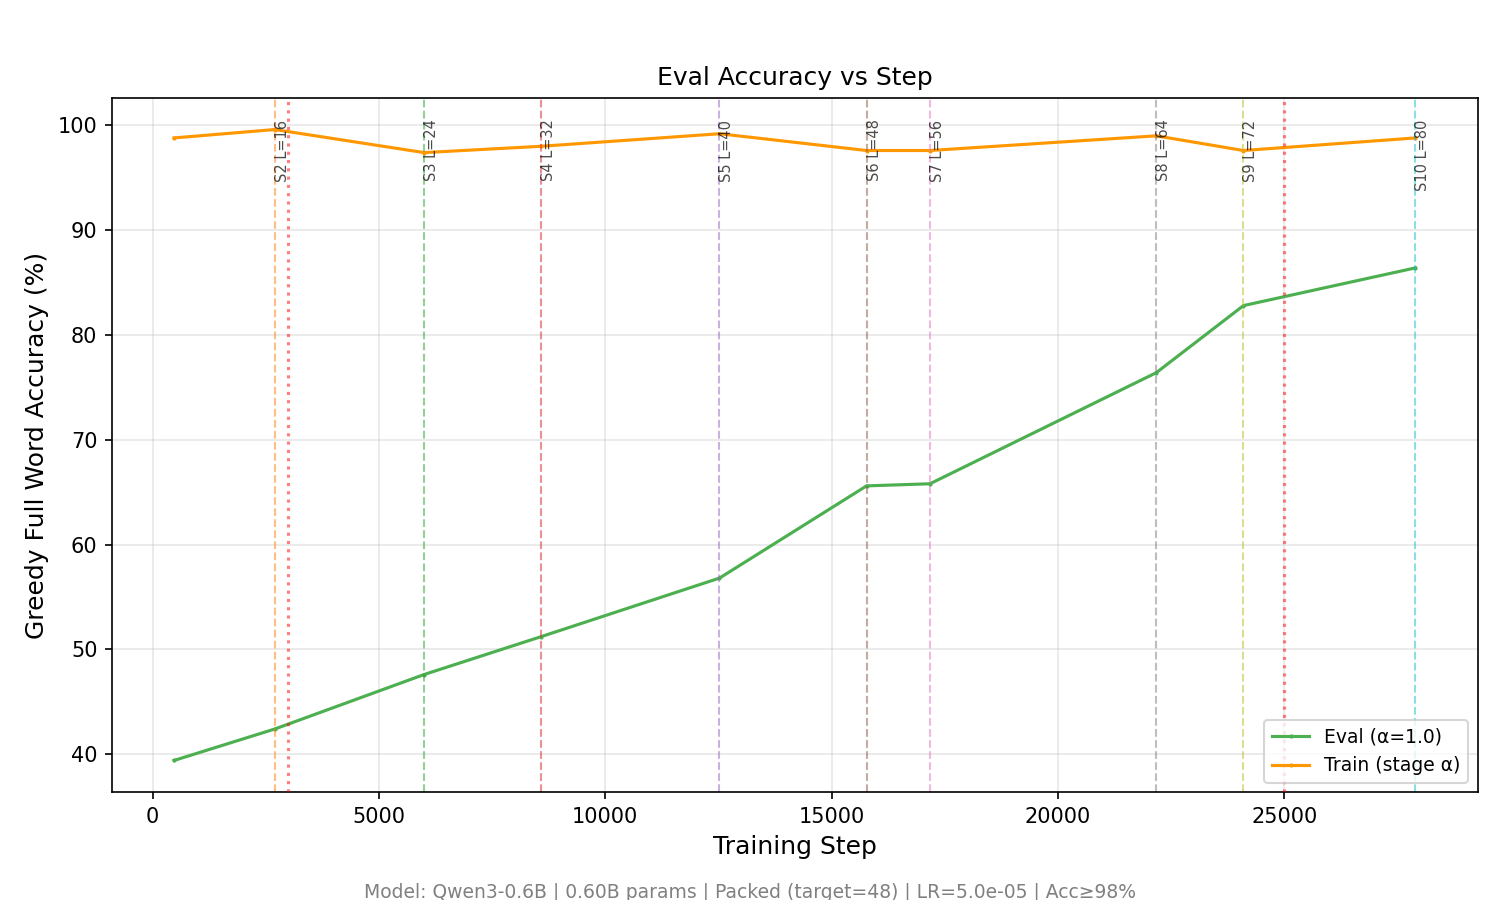
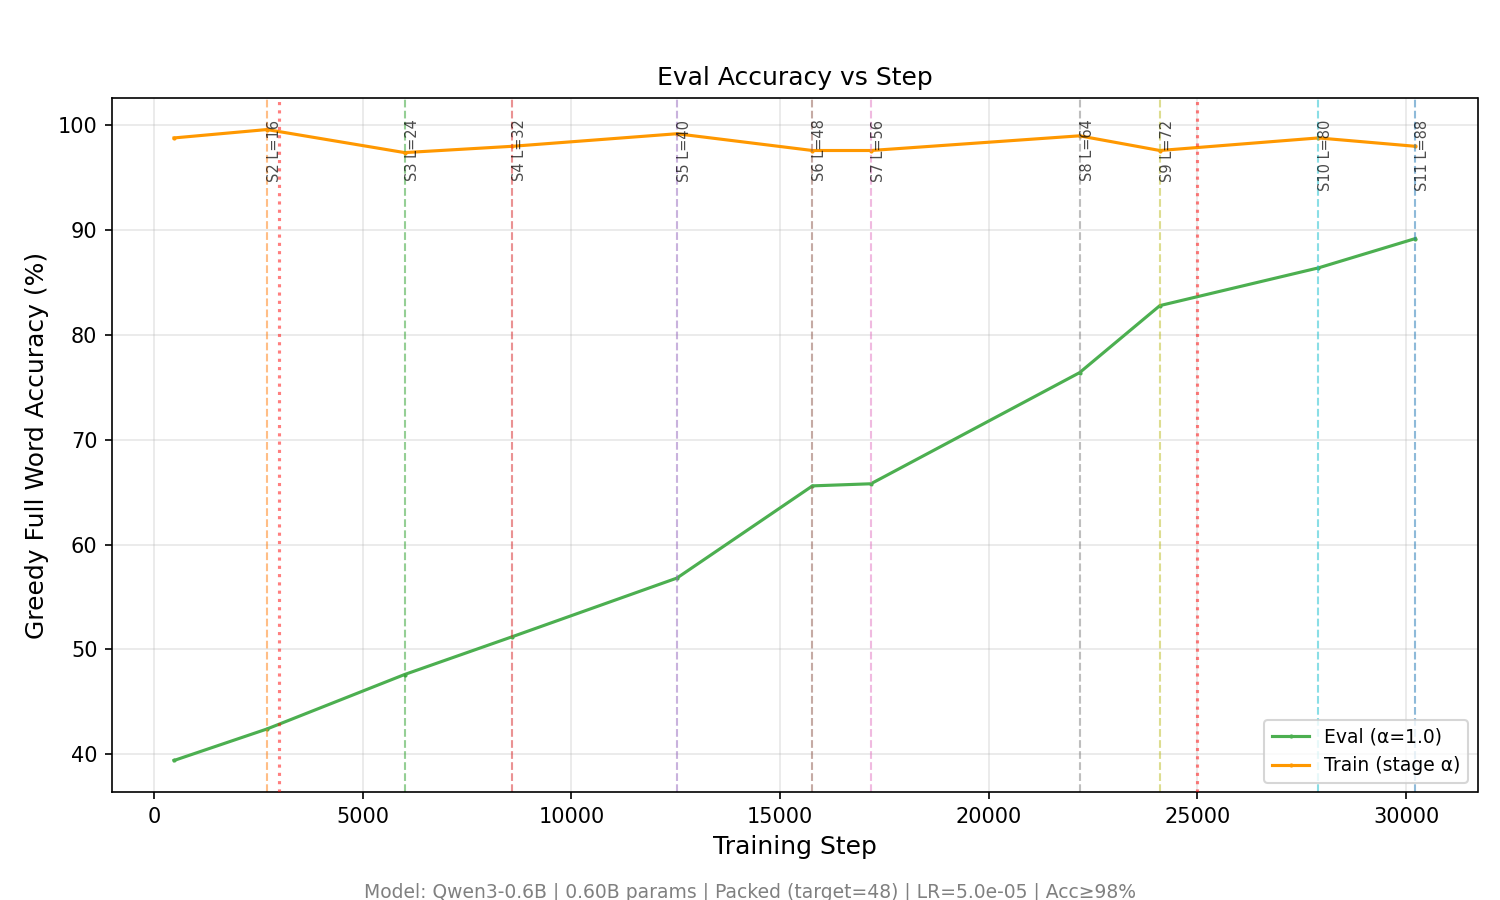
chore(exp1): sync live metrics and plots (2026-10-13 05:37 UTC) - LoRA R=8 Stage 12 (L=96)

diff --git a/PROGRESS.md b/PROGRESS.md
@@ -3,7 +3,7 @@
 **Base commit:** `da7b19c` (`main`)
 **Branch:** `jackierwzhang/exp1-qwen06b-lora-vs-fullft`
 **VMs:** `nl-exp1-spot-fullft` (`europe-west1-c`, deleted after completion), `nl-exp1-spot-r8` (`a3-highgpu-4g`, 4x H100-80GB Spot, `us-east4-a`), `nl-exp1-spot-r64` (`a3-highgpu-4g`, 4x H100-80GB Spot, `europe-west1-c`), `nl-exp1-spot-r256` (`a3-highgpu-4g`, 4x H100-80GB Spot, `us-east4-b`)
-**Last updated:** 2026-10-13 05:19 UTC
+**Last updated:** 2026-10-13 05:37 UTC
 
 ## Shared Configuration
 
@@ -26,11 +26,11 @@
 | Arm | Job ID | Mode | GPUs | Status | Step | Stage / $L$ | Rolling Full Acc | Rolling First Acc | Loss | PFLOPs | TFLOP/s | Wall Time | Est. Remaining |
 | :--- | :--- | :--- | :--- | :--- | ---: | :--- | ---: | ---: | ---: | ---: | ---: | ---: | :--- |
 | Full-FT | `exp1_qwen06b_fullft` | Full FT | 0,1,2,3 (Spot 4x H100: nl-exp1-spot-fullft, europe-west1-c) | Completed | 27570 | 16 (`L=128`) | 97.62% | 98.88% | 0.0163 | 116023.73 | 405.3 | 71.26h | 0.0h (Done) |
-| LoRA `R=8` | `exp1_qwen06b_lora_r8` | `--use_lora --lora_rank 8` (`alpha=16, dropout=0.1`) | 0,1,2,3 (Spot 4x H100: nl-exp1-spot-r8, us-east4-a) | Running | 30220 | 11 (`L=88`) | 97.25% | 98.38% | 0.0213 | 85486.42 | 243.4 | 75.24h | ~81.9h (stage-wt) / ~0.0h (82k PFLOPs ref) |
-| LoRA `R=64` | `exp1_qwen06b_lora_r64` | `--use_lora --lora_rank 64` (`alpha=128, dropout=0.1`) | 0,1,2,3 (Spot 4x H100: nl-exp1-spot-r64, europe-west1-c) | Running | 21640 | 13 (`L=104`) | 97.62% | 98.75% | 0.0192 | 73473.17 | 222.3 | 68.19h | ~34.9h (stage-wt) / ~7.9h (82k PFLOPs ref) |
-| LoRA `R=256` | `exp1_qwen06b_lora_r256` | `--use_lora --lora_rank 256` (`alpha=512, dropout=0.1`) | 0,1,2,3 (Spot 4x H100: nl-exp1-spot-r256, us-east4-b) | Running | 22220 | 9 (`L=72`) | 95.88% | 97.00% | 0.0281 | 57026.21 | 160.5 | 73.63h | ~152.5h (stage-wt) / ~32.2h (82k PFLOPs ref) |
+| LoRA `R=8` | `exp1_qwen06b_lora_r8` | `--use_lora --lora_rank 8` (`alpha=16, dropout=0.1`) | 0,1,2,3 (Spot 4x H100: nl-exp1-spot-r8, us-east4-a) | Running | 30270 | 12 (`L=96`) | 96.00% | 97.50% | 0.0243 | 85738.51 | 240.0 | 75.51h | ~74.0h (stage-wt) / ~0.0h (82k PFLOPs ref) |
+| LoRA `R=64` | `exp1_qwen06b_lora_r64` | `--use_lora --lora_rank 64` (`alpha=128, dropout=0.1`) | 0,1,2,3 (Spot 4x H100: nl-exp1-spot-r64, europe-west1-c) | Running | 21700 | 13 (`L=104`) | 97.50% | 98.50% | 0.0206 | 73804.68 | 223.2 | 68.50h | ~35.1h (stage-wt) / ~7.6h (82k PFLOPs ref) |
+| LoRA `R=256` | `exp1_qwen06b_lora_r256` | `--use_lora --lora_rank 256` (`alpha=512, dropout=0.1`) | 0,1,2,3 (Spot 4x H100: nl-exp1-spot-r256, us-east4-b) | Running | 22280 | 9 (`L=72`) | 96.00% | 98.12% | 0.0398 | 57258.95 | 160.4 | 73.93h | ~153.1h (stage-wt) / ~31.9h (82k PFLOPs ref) |
 
-> **ETA Methodology & Overall Experiment 1 Completion (3 Active Arms on 12x Spot H100; Full-FT Completed):** `stage-wt` scales current wall time by remaining lookahead units ($\sum_{k=1}^{16} k = 136$); `82k PFLOPs ref` divides remaining compute against the collaborator's `Qwen3-0.6B` `step=8` cold-start reference (`82,000 PFLOPs` to `L=128`) by the arm's measured `PFLOPs/h` rate. Next arm completion is estimated in **~34.9h (stage-wt) / ~0.0h (82k PFLOPs ref)**; full 4-arm concurrent completion is bounded by the slowest arm at **~152.5h (stage-wt) to ~32.2h (82k PFLOPs ref)**.
+> **ETA Methodology & Overall Experiment 1 Completion (3 Active Arms on 12x Spot H100; Full-FT Completed):** `stage-wt` scales current wall time by remaining lookahead units ($\sum_{k=1}^{16} k = 136$); `82k PFLOPs ref` divides remaining compute against the collaborator's `Qwen3-0.6B` `step=8` cold-start reference (`82,000 PFLOPs` to `L=128`) by the arm's measured `PFLOPs/h` rate. Next arm completion is estimated in **~35.1h (stage-wt) / ~0.0h (82k PFLOPs ref)**; full 4-arm concurrent completion is bounded by the slowest arm at **~153.1h (stage-wt) to ~31.9h (82k PFLOPs ref)**.
 
 ## Stage Evaluation Summary (`stage_eval_history.json`)
 
@@ -62,6 +62,7 @@
 | LoRA `R=8` | 8 | 22175 | 64 | 0.508 | 0.1326 | 76.60% | 76.40% | 99.00% | 99.00% |
 | LoRA `R=8` | 9 | 24100 | 72 | 0.571 | 0.1077 | 83.00% | 82.80% | 97.80% | 97.60% |
 | LoRA `R=8` | 10 | 27900 | 80 | 0.634 | 0.0853 | 86.60% | 86.40% | 99.00% | 98.80% |
+| LoRA `R=8` | 11 | 30225 | 88 | 0.697 | 0.0637 | 89.40% | 89.20% | 98.40% | 98.00% |
 | LoRA `R=64` | 1 | 450 | 8 | 0.067 | 0.5967 | 39.40% | 39.40% | 98.80% | 98.80% |
 | LoRA `R=64` | 2 | 1300 | 16 | 0.130 | 0.3640 | 45.80% | 45.20% | 98.80% | 98.80% |
 | LoRA `R=64` | 3 | 2675 | 24 | 0.193 | 0.3256 | 51.20% | 51.00% | 99.20% | 99.20% |
